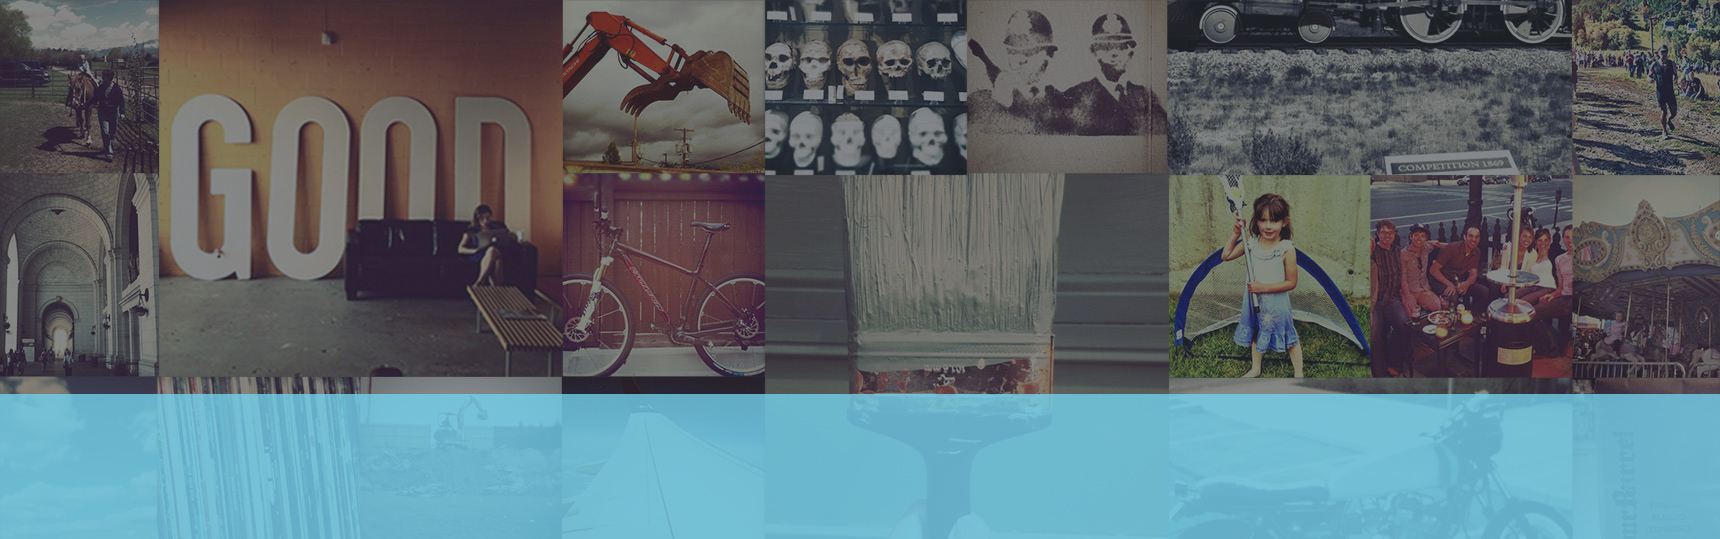
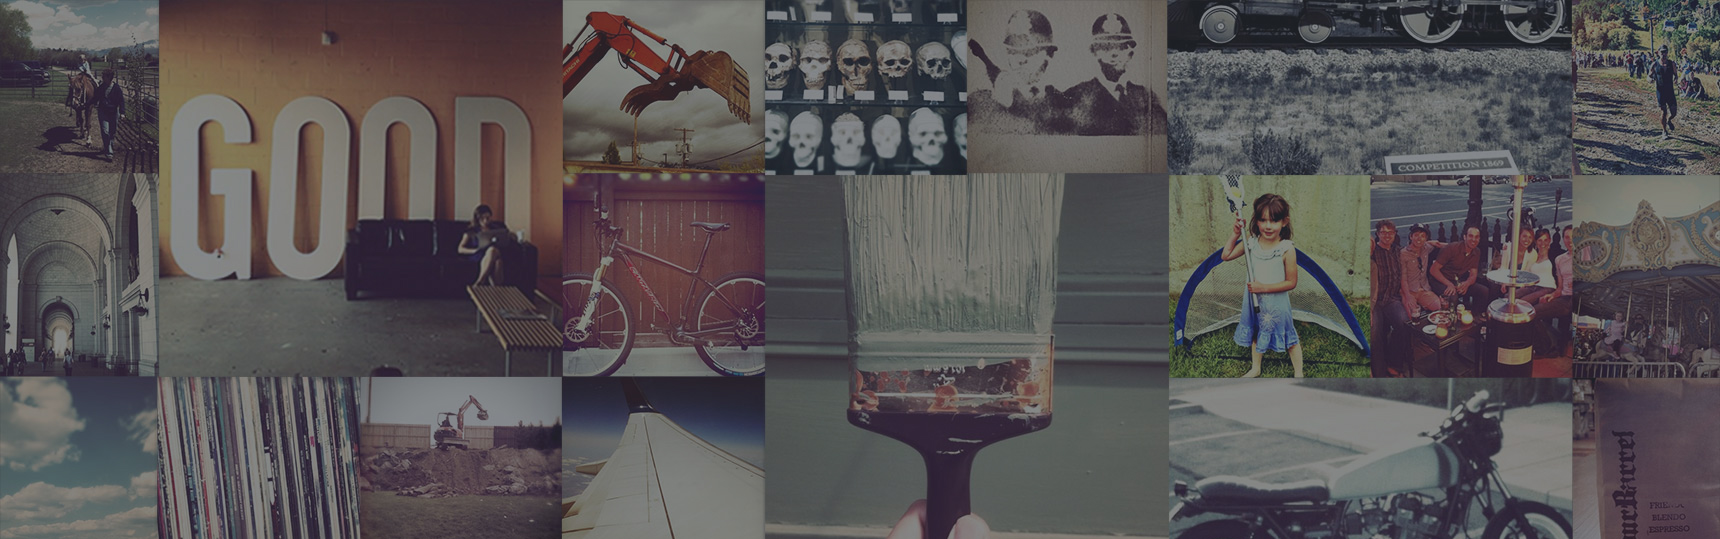
Updated files

Changed region(s): [[0.0, 0.7124, 1.0, 1.0]]

diff --git a/stylesheet.less b/stylesheet.less
@@ -695,44 +695,33 @@ footer section.footer2 .widget.responsivecolumns .columns-two-right {
 /* FEATURE */
 
 .widget.feature {
+  width: 100%;
   margin-bottom: 0em;
-}
-
-.widget.feature .widget.responsivecolumns {
-  margin-top: 0;
-  margin-bottom: 0;
+  height: 539px!important;
 }
 
 .widget.feature .content {
-    margin-top: -5px;
     width: 100%;
+    position: absolute!important;
+    bottom: 0;
+    background: hsla(hue(@color-swatch2), saturation(@color-swatch2), lightness(@color-swatch2), 0.8);  
+    padding: 1.8em 0;
 }
 
-.widget.feature .bgimage {
-  position: relative!important;
-}
-
-.widget.feature .content .strip {
-  position: absolute;
-  bottom: 0;
-  width: 100%;
-  background: hsla(hue(@color-swatch2), saturation(@color-swatch2), lightness(@color-swatch2), 0.8);  
-  padding: 1.8em 0;
-}
-
-.widget.feature {
-    width: 100%;
+.widget.feature .content .spare {
+  display: block;
+  margin: 0 auto;
+  max-width: 960px;
 }
 
 .widget.feature h2 {
-  float: left;
   color: @color-swatch4;
   letter-spacing: -1px;
   font-size: 2.3em;
   padding-bottom: 6px;
 }
+
 .widget.feature h3 {
-  float: left;
   color: lighten(@color-swatch5,20%);
   letter-spacing: 0;
   font-size: 1em;
@@ -741,9 +730,8 @@ footer section.footer2 .widget.responsivecolumns .columns-two-right {
 
 .widget.feature button
 {
-  float: right;
   padding: 1.2em 2em;
-  margin: 1em 0 1em;
+  margin: 3em 0 1em;
   -webkit-border-radius: 3px;
      -moz-border-radius: 3px;
           border-radius: 3px;
